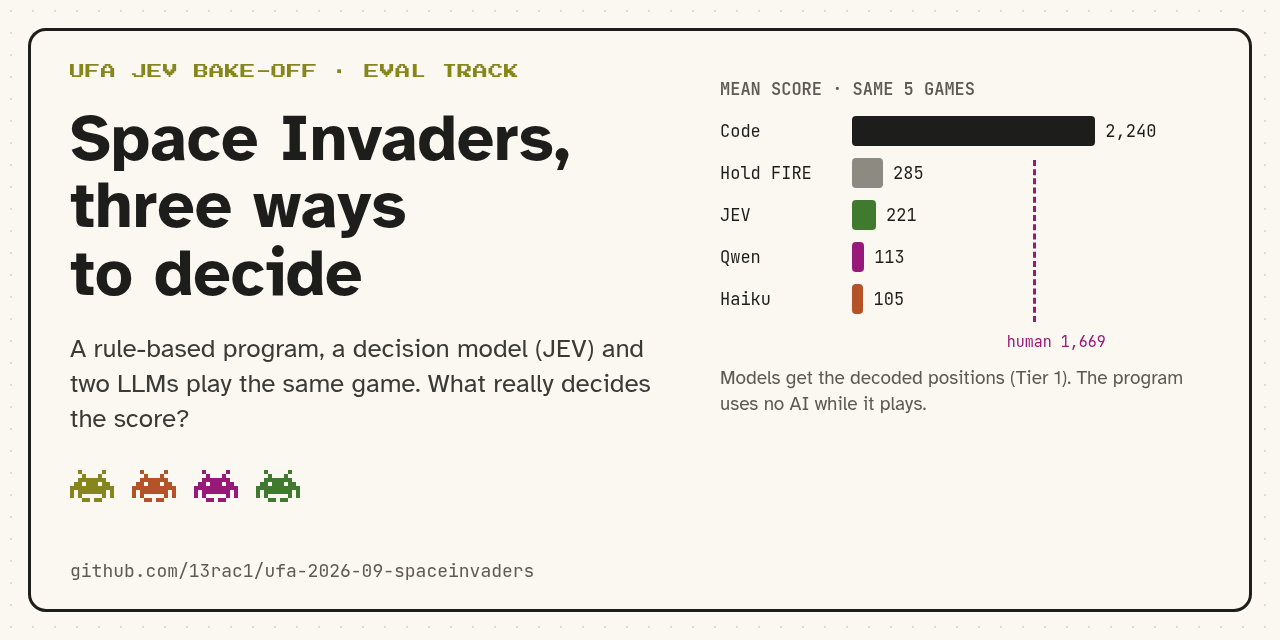
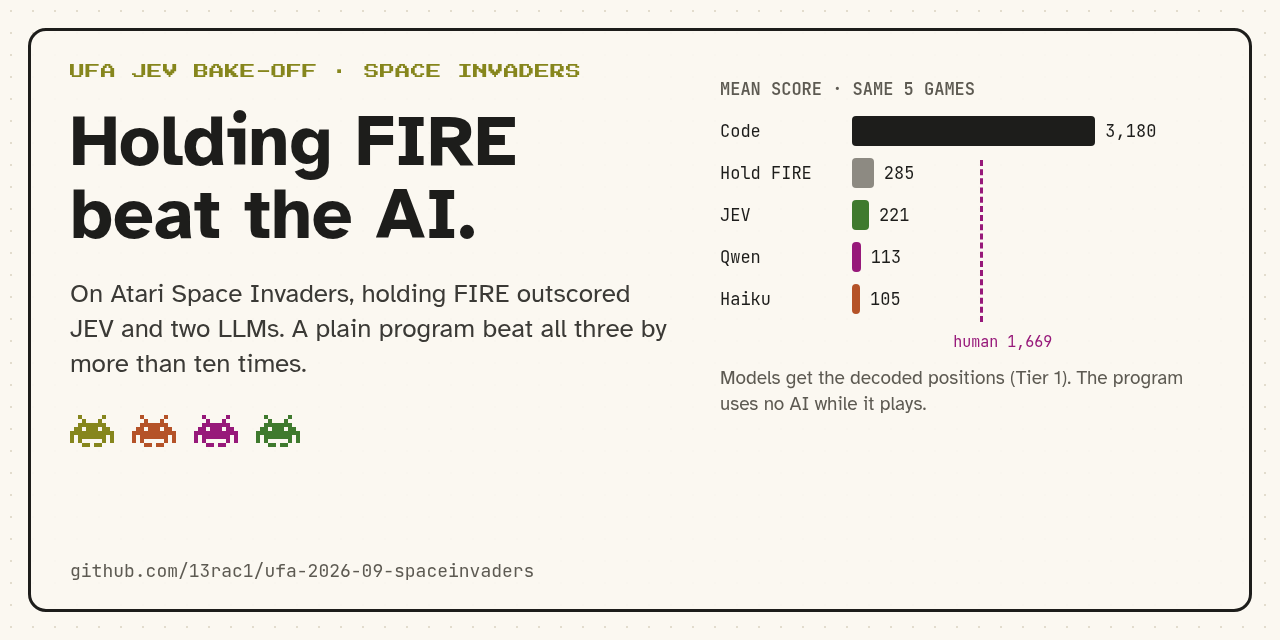
docs(site): entry update: code v5, the goal duel, the twist
Built by site/build.py in the private repository; numbers checked against
the published README table and the full results record.

diff --git a/data.js b/data.js
@@ -6,13 +6,13 @@ export const DATA = {
     "name": "Code",
     "input": "its own rules",
     "games": 5,
-    "score": 2240,
+    "score": 3180,
     "scores": [
-     1570.0,
-     1745.0,
-     2230.0,
-     2465.0,
-     3190.0
+     800.0,
+     3570.0,
+     3780.0,
+     3785.0,
+     3965.0
     ],
     "latency_ms": 0.0,
     "cost": 0.0
@@ -32,6 +32,54 @@ export const DATA = {
     ],
     "latency_ms": 98.62,
     "cost": 5.6455564815516325e-05
+   },
+   {
+    "player": "llm-goal",
+    "name": "Haiku 4.5",
+    "input": "Goal: picks the target rule, code flies",
+    "games": 5,
+    "score": 1645,
+    "scores": [
+     1175.0,
+     1200.0,
+     1230.0,
+     1860.0,
+     2760.0
+    ],
+    "latency_ms": 0.07,
+    "cost": 6.469421841541756e-05
+   },
+   {
+    "player": "jev-goal",
+    "name": "JEV",
+    "input": "Goal: picks the target rule, code flies",
+    "games": 5,
+    "score": 1304,
+    "scores": [
+     365.0,
+     1175.0,
+     1375.0,
+     1695.0,
+     1910.0
+    ],
+    "latency_ms": 0.05,
+    "cost": 1.951442646023927e-06
+   },
+   {
+    "player": "qwen-goal",
+    "name": "Qwen3.8 27B",
+    "input": "Goal: picks the target rule, code flies",
+    "games": 5,
+    "score": 1296,
+    "scores": [
+     570.0,
+     1010.0,
+     1020.0,
+     1305.0,
+     2575.0
+    ],
+    "latency_ms": 0.05,
+    "cost": 0.0
    },
    {
     "player": "always-fire",
@@ -161,7 +209,7 @@ export const DATA = {
   ],
   "human": 1668.7,
   "random_ref": 148.0,
-  "code_all": 2306,
+  "code_all": 2682,
   "code_all_n": 20,
   "realtime": {
    "jev": [
@@ -169,8 +217,8 @@ export const DATA = {
     198
    ],
    "code": [
-    2240,
-    2240
+    3180,
+    3180
    ]
   }
  },
@@ -1431,10 +1479,6 @@ export const DATA = {
    ],
    "jev_games": 174
   },
-  "goal": {
-   "jev_goal": 1494,
-   "games": 5
-  },
   "waves": [
    {
     "wave": 1,
@@ -1510,5 +1554,77 @@ export const DATA = {
     746
    ]
   }
- }
+ },
+ "goal_duel": [
+  {
+   "player": "jev-goal",
+   "name": "JEV",
+   "mode": "turn",
+   "games": 5,
+   "score": 1304,
+   "scores": [
+    365.0,
+    1175.0,
+    1375.0,
+    1695.0,
+    1910.0
+   ]
+  },
+  {
+   "player": "jev-goal",
+   "name": "JEV",
+   "mode": "realtime",
+   "games": 5,
+   "score": 1409,
+   "scores": [
+    410.0,
+    520.0,
+    1540.0,
+    2280.0,
+    2295.0
+   ]
+  },
+  {
+   "player": "llm-goal",
+   "name": "Haiku 4.5",
+   "mode": "turn",
+   "games": 5,
+   "score": 1645,
+   "scores": [
+    1175.0,
+    1200.0,
+    1230.0,
+    1860.0,
+    2760.0
+   ]
+  },
+  {
+   "player": "llm-goal",
+   "name": "Haiku 4.5",
+   "mode": "realtime",
+   "games": 5,
+   "score": 234,
+   "scores": [
+    110.0,
+    215.0,
+    215.0,
+    305.0,
+    325.0
+   ]
+  },
+  {
+   "player": "qwen-goal",
+   "name": "Qwen3.8 27B",
+   "mode": "turn",
+   "games": 5,
+   "score": 1296,
+   "scores": [
+    570.0,
+    1010.0,
+    1020.0,
+    1305.0,
+    2575.0
+   ]
+  }
+ ]
 };

diff --git a/index.html b/index.html
@@ -28,10 +28,12 @@
     <h1>Holding FIRE beat the AI.</h1>
     <p class="lede">Just holding the FIRE button outscored <dfn data-term="jev">JEV</dfn> and two
       <dfn data-term="llm">LLMs</dfn>. A <dfn data-term="code">plain program</dfn> beat all three by
-      10 to 20 times.</p>
+      more than ten times.</p>
     <div id="hero-chart" class="chart hero-chart"></div>
     <p class="small">Bars: the average of the same five games. Dots: each game. The models got the game as numbers
       (<dfn data-term="tier">Tier 1</dfn>). The program uses no AI while it plays.</p>
+    <p class="twist">The twist: ask a narrower question, and in realtime
+      <a href="#goal">JEV beats Haiku six times over</a>.</p>
     <p class="links"><a href="#watch">Watch</a> · <a href="#why">Why?</a> ·
       <a href="https://github.com/13rac1/ufa-2026-09-spaceinvaders">The repository</a></p>
   </div>
@@ -40,7 +42,7 @@
 <nav class="chapters" aria-label="Chapters">
   <a href="#watch">Watch</a><a href="#why">Why</a><a href="#tiers">Tiers</a><a href="#quiz">Your turn</a>
   <a href="#scores">Scores</a><a href="#speed">Speed</a><a href="#waves">Endings</a>
-  <a href="#after">Afterwards</a><a href="#fair">Check it</a>
+  <a href="#after">Further</a><a href="#fair">Check it</a>
 </nav>
 
 <main>
@@ -49,7 +51,7 @@
   <figure class="video">
     <video src="assets/six-players.mp4" poster="assets/six-players.jpg" controls muted playsinline loop preload="metadata"></video>
     <figcaption>One game (seed 119), 3x speed. Top: the program, JEV, Claude Haiku 4.5. Bottom: Qwen3.8 27B,
-      hold FIRE, random buttons. <span class="tag after">code v5</span></figcaption>
+      hold FIRE, random buttons.</figcaption>
   </figure>
   <p class="note">In this game JEV beat holding FIRE, 425 to 285. Over the five test games it averaged 221
     and beat FIRE in two of them. Single games vary a lot; the chart above shows every game.</p>
@@ -133,8 +135,7 @@
 </section>
 
 <section id="after" class="wrap">
-  <h2>After the deadline</h2>
-  <p class="banner">Measured after the entry was submitted; not part of it.</p>
+  <h2>Going further</h2>
   <h3>The program got better</h3>
   <div id="versions-chart" class="chart"></div>
   <details><summary>The three rules, and ideas that failed</summary><ol class="rules" id="rules"></ol><ul id="failed"></ul></details>
@@ -144,7 +145,9 @@
   <h3>Can JEV read the situation?</h3>
   <div id="narrow-table"></div>
   <p id="narrow-summary" class="small"></p>
-  <h3>JEV picks the goal, code does the rest</h3>
+  <h3 id="goal">Ask a narrower question: the model picks the target, code flies</h3>
+  <p>After each kill the model chooses one target rule; the program aims, fires and dodges.
+    Same question for JEV and the LLMs.</p>
   <div id="goal-chart" class="chart"></div>
 </section>
 

diff --git a/app.js b/app.js
@@ -220,7 +220,7 @@ function setupAfter() {
     rows: versions, max: Math.max(...versions.map((r) => r._v)),
     label: (r) => `${r.name} (${r.games} games)`, value: (r) => fmt(r.score), color: () => css("--code"),
     line: DATA.entry.human, lineLabel: "human reference",
-  }) + `<p class="small">Evaluation seeds 101-120. v3 is the entry; v5's best rule came from watching the video.</p>`;
+  }) + `<p class="small">Evaluation seeds 101-120. v5's best rule, the lowest row first in the last drop, came from watching the video.</p>`;
   $("#rules").innerHTML = DATA.after.code_steps.map((s) =>
     `<li><span class="v">${s.version}</span>${esc(s.rule)} <span class="small">(${esc(s.tuning)})</span></li>`).join("");
   $("#failed").innerHTML = DATA.after.failed.map(([idea, d]) => `<li>Failed: ${esc(idea)} (${esc(d)} per game)</li>`).join("");
@@ -254,16 +254,15 @@ function setupAfter() {
   $("#narrow-summary").innerHTML = `No better than a constant guess. And it fires whenever the gun is ready:
     ${Math.round((100 * fl[0]) / fl[1])}% when lined up, ${Math.round((100 * nl[0]) / nl[1])}% when not. So it plays like holding FIRE.`;
 
-  const g = DATA.after.goal;
-  const goalRows = [
-    { name: "JEV picks each move (Tier 1)", player: "jev-t1", _v: byPlayer["jev-t1"].score, note: "evaluation seeds, entry" },
-    { name: "JEV picks the goal, code executes", player: "jev-goal", _v: g.jev_goal, note: `${g.games} tuning games` },
-    { name: "Code alone (v5)", player: "code", _v: DATA.code_versions.at(-1).score, note: "evaluation seeds" },
-  ];
+  const duel = DATA.goal_duel.map((r) => ({ ...r, _v: r.score }));
+  const pick = (p, m) => duel.find((r) => r.player === p && r.mode === m);
   $("#goal-chart").innerHTML = barChart({
-    rows: goalRows, max: Math.max(...goalRows.map((r) => r._v)), left: 320,
-    label: (r) => r.name, value: (r) => `${fmt(r._v)} (${r.note})`, color: (r) => COLOR(r.player),
-  }) + `<p class="small">Code aims and fires; JEV only picks the target. That is the split TypeSafe's own guide recommends.</p>`;
+    rows: duel, max: Math.max(...duel.map((r) => r._v)), left: 260,
+    label: (r) => `${r.name} · ${r.mode === "turn" ? "turn" : "realtime"}`,
+    value: (r) => `${fmt(r._v)}${r.games < 5 ? ` (${r.games} games)` : ""}`, color: (r) => COLOR(r.player),
+  }) + `<p class="small">When the game waits, Haiku picks better targets (${fmt(pick("llm-goal", "turn").score)} against
+    ${fmt(pick("jev-goal", "turn").score)}). When it doesn't, Haiku's second of thinking costs it the game: JEV scores
+    ${fmt(pick("jev-goal", "realtime").score)}, Haiku ${fmt(pick("llm-goal", "realtime").score)}. Evaluation seeds 101-105.</p>`;
 }
 
 function setupHero() {

diff --git a/style.css b/style.css
@@ -145,3 +145,4 @@ table.data td:not(:first-child), table.data th:not(:first-child) { font-family: 
 .hhuman span { position: absolute; bottom: -22px; transform: translateX(-50%); font: 13px var(--mono); color: var(--magenta); white-space: nowrap; }
 .hdot { position: absolute; top: 50%; width: 9px; height: 9px; margin: -4.5px 0 0 -4.5px; border-radius: 50%;
   background: #fff; border: 2px solid; box-sizing: border-box; opacity: .95; }
+.twist { font-size: 19px; font-weight: 700; margin: 4px 0 10px; }
